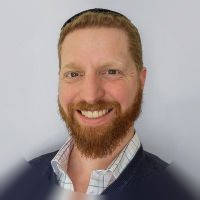
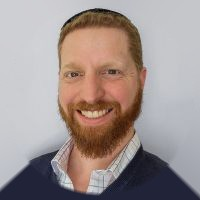
Square headshot: clean gray fill instead of a smeared one
Live site (with this PR): the 1996 headshot's corners are now a smooth,
sharp continuation of the photo's gray background (averaged around the
circle's edge), with the sweater color in the bottom corners, instead of
streaky edge colors with a blur.

Claude-Session: https://claude.ai/code/session_01T6hHxHPYFwBg84dT9Safiz

Changed region(s): [[0.21, 0.9, 0.54, 1.0], [0.84, 0.81, 1.0, 1.0], [0.0, 0.78, 0.18, 0.99]]

diff --git a/scripts/era-assets.py b/scripts/era-assets.py
@@ -181,38 +181,66 @@ def make_thumbs(out, L):
 
 # ======================= square headshot =======================
 def make_headshot(out, L):
-    """The headshot is a circle on black. Older eras show it as a square photo: everything outside the
-    circle is filled by extending the circle's edge colors straight outward (the gray background,
-    and the sweater at the bottom), smoothed around the circle, then the photo is laid back on top."""
+    """The headshot is a circle on black. Older eras show it as a square photo. The black outside the
+    circle becomes the circle's own background gray: the gray along the circle's edge, averaged over
+    +-20 degrees so it is smooth (no streaks), carried straight out to the corners. Where the sweater
+    meets the bottom edge, the corners get the sweater's color instead. The photo blends into the fill
+    over its last 4px so no ring shows."""
     src = Image.open(ROOT / L['headshot']).convert('RGB')
     w, h = src.size
     px = src.load()
     cx, cy = (w - 1) / 2, (h - 1) / 2
     R = w / 2 - 4  # just inside the antialiased edge, which is mixed with the black
-    edge = []  # average edge color per degree, over a thin band and +-4 degrees
-    for deg in range(360):
-        acc, n = [0, 0, 0], 0
-        for dd in range(-4, 5):
-            a = math.radians(deg + dd)
-            for r in (R - 3, R - 2, R - 1, R):
-                c = px[int(round(cx + r * math.cos(a))), int(round(cy + r * math.sin(a)))]
-                acc = [acc[i] + c[i] for i in range(3)]
-                n += 1
-        edge.append(tuple(v // n for v in acc))
-    fill = Image.new('RGB', (w, h))
-    fp = fill.load()
+
+    def lum(c):
+        return 0.299 * c[0] + 0.587 * c[1] + 0.114 * c[2]
+
+    # Edge samples per degree: light, low-saturation pixels are background; dark ones may be sweater.
+    per = [[] for _ in range(360)]
+    dark = []
+    for d10 in range(0, 3600, 5):
+        a = math.radians(d10 / 10)
+        for r in (R - 5, R - 3, R - 1):
+            c = px[int(round(cx + r * math.cos(a))), int(round(cy + r * math.sin(a)))]
+            if lum(c) > 150 and max(c) - min(c) < 25:
+                per[d10 // 10].append(c)
+            elif lum(c) < 80 and r == R - 1:
+                dark.append((d10 / 10, c))
+
+    # Background gray per degree, smoothed around the circle; gaps borrow the nearest angle.
+    edge = []
+    for d in range(360):
+        acc, wt = [0, 0, 0], 0
+        for dd in range(-20, 21):
+            k = 21 - abs(dd)
+            for c in per[(d + dd) % 360]:
+                acc = [acc[i] + c[i] * k for i in range(3)]
+                wt += k
+        edge.append([v / wt for v in acc] if wt else None)
+    for d in range(360):
+        for s in range(1, 180):
+            if edge[d] is not None:
+                break
+            edge[d] = edge[(d + s) % 360] or edge[(d - s) % 360]
+
+    # The sweater: the dark run across the bottom edge (y grows downward, so 90 degrees is straight down).
+    bottom = [(d, c) for d, c in dark if 20 < d < 160]
+    lo, hi = min(d for d, _ in bottom), max(d for d, _ in bottom)
+    sweater = sorted((c for _, c in bottom), key=lum)[len(bottom) // 2]
+
+    img = Image.new('RGB', (w, h))
+    op = img.load()
     for y in range(h):
         for x in range(w):
-            deg = math.degrees(math.atan2(y - cy, x - cx)) % 360
-            i, t = int(deg) % 360, deg - int(deg)
-            a, b = edge[i], edge[(i + 1) % 360]
-            fp[x, y] = tuple(int(a[k] + (b[k] - a[k]) * t) for k in range(3))
-    fill = fill.filter(ImageFilter.GaussianBlur(1.5))
-    mask = Image.new('L', (w * 4, h * 4), 0)
-    r = R - 1
-    ImageDraw.Draw(mask).ellipse([4 * (cx - r), 4 * (cy - r), 4 * (cx + r), 4 * (cy + r)], fill=255)
-    fill.paste(src, (0, 0), mask.resize((w, h), Image.LANCZOS))
-    fill.save(out / 'headshot-square.jpg', quality=90)
+            d = math.degrees(math.atan2(y - cy, x - cx)) % 360
+            i, f = int(d) % 360, d - int(d)
+            gray = [edge[i][k] * (1 - f) + edge[(i + 1) % 360][k] * f for k in range(3)]
+            t = min(1, max(0, (d - lo) / 2)) * min(1, max(0, (hi - d) / 2))  # 2-degree shoulder edge
+            fill = [gray[k] * (1 - t) + sweater[k] * t for k in range(3)]
+            m = min(1, max(0, (R - math.hypot(x - cx, y - cy)) / 4))
+            c = px[x, y]
+            op[x, y] = tuple(max(0, min(255, int(round(c[k] * m + fill[k] * (1 - m))))) for k in range(3))
+    img.save(out / 'headshot-square.jpg', quality=90)
 
 
 # ======================= badges =======================
